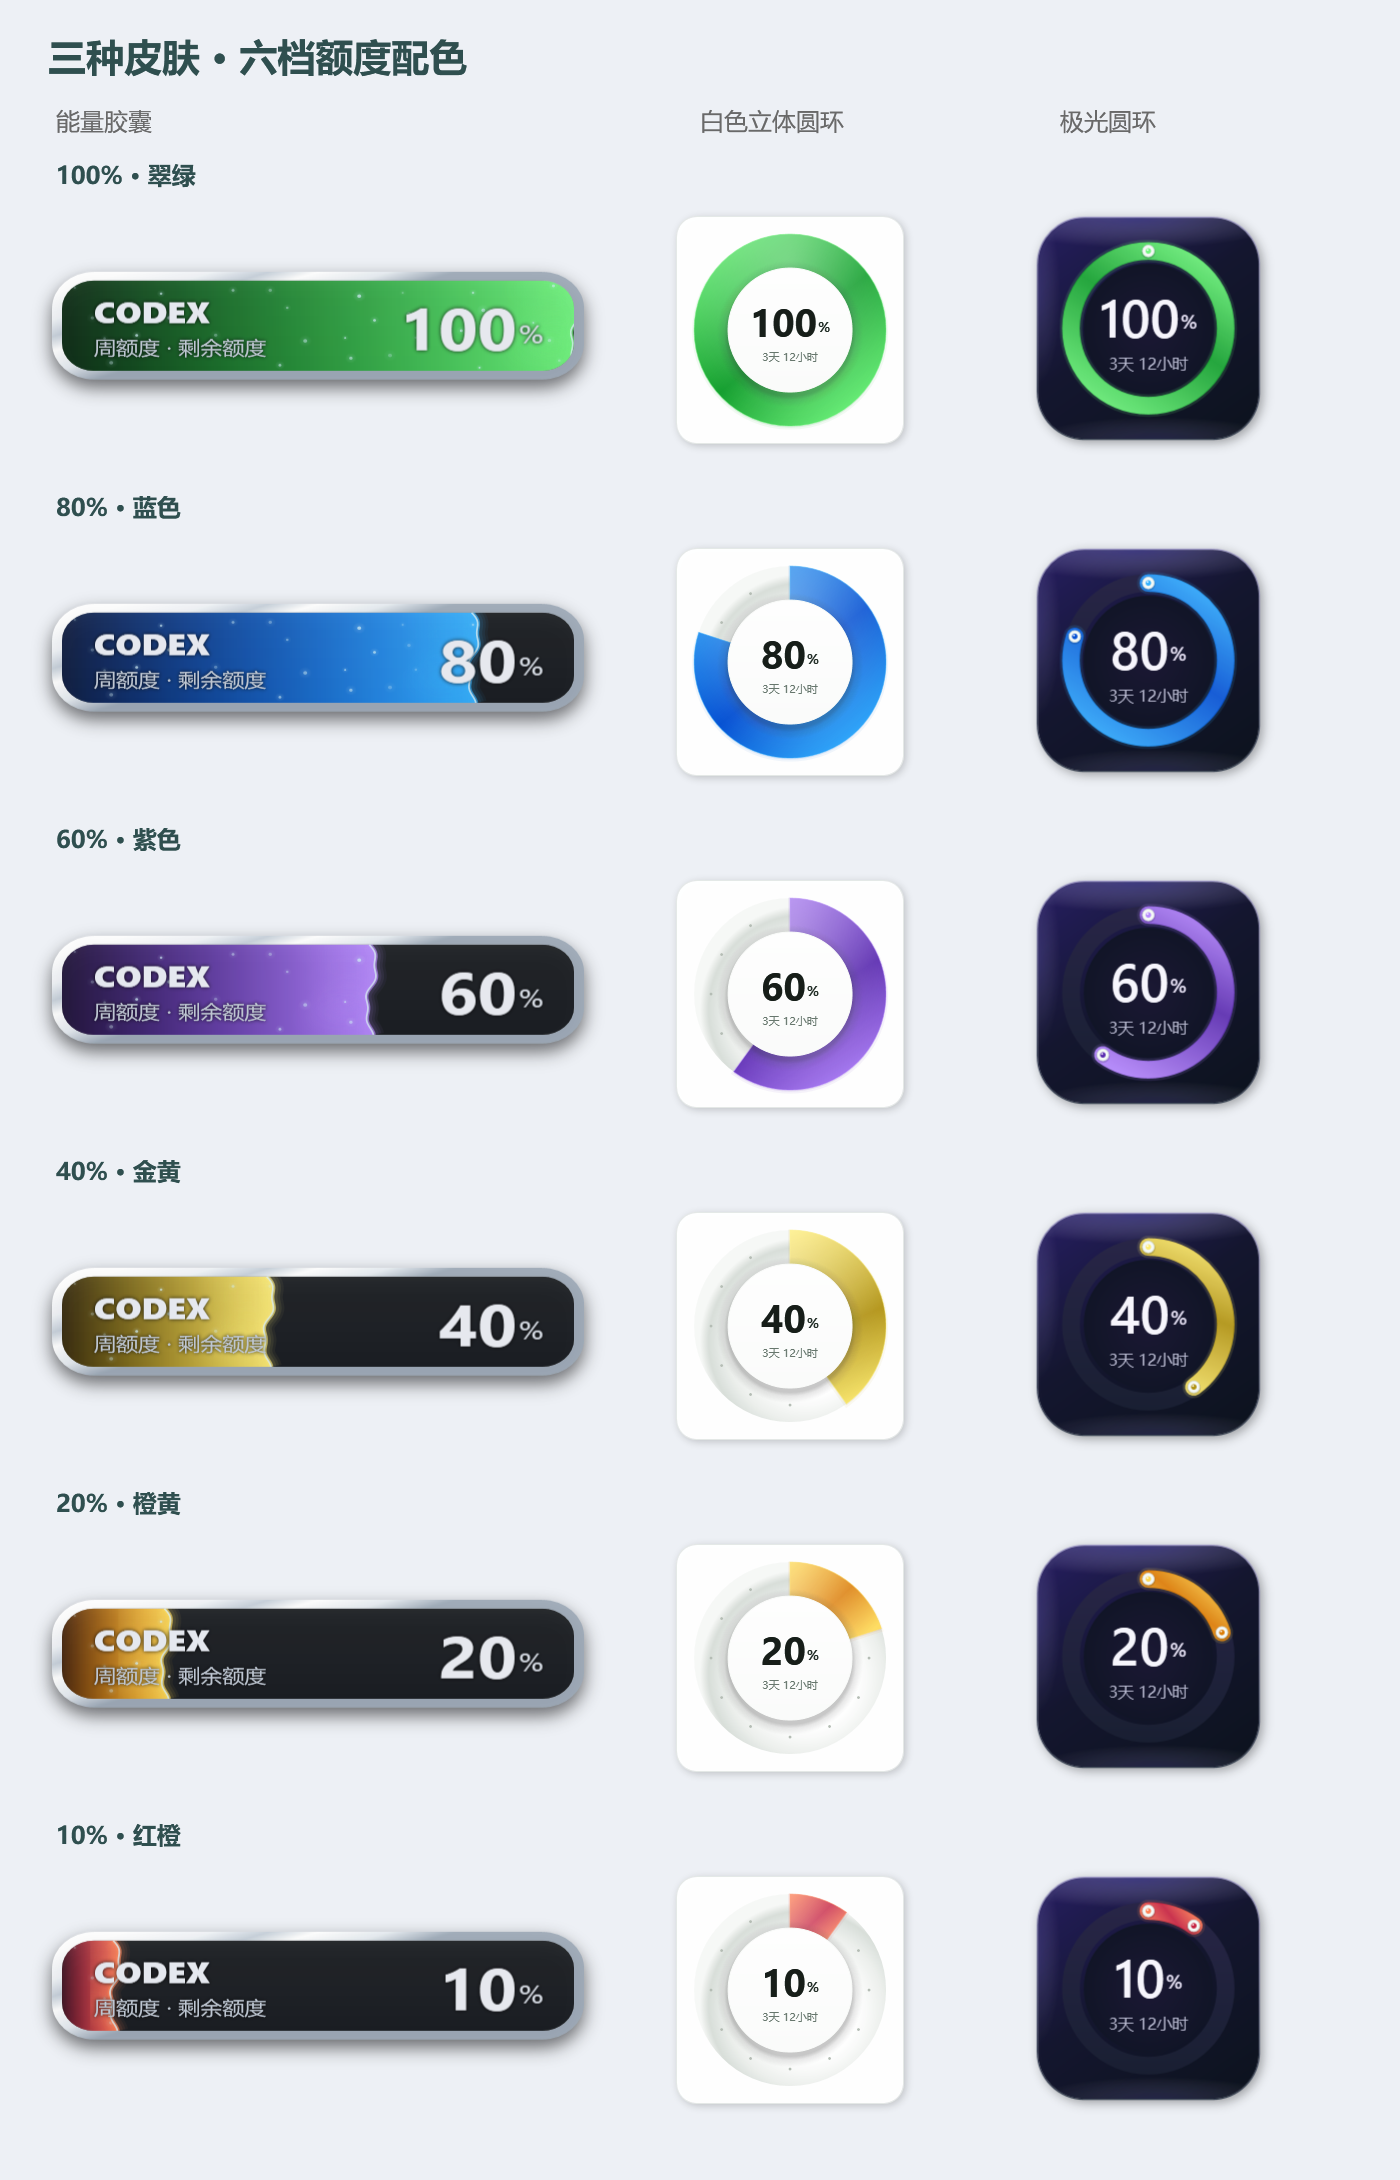
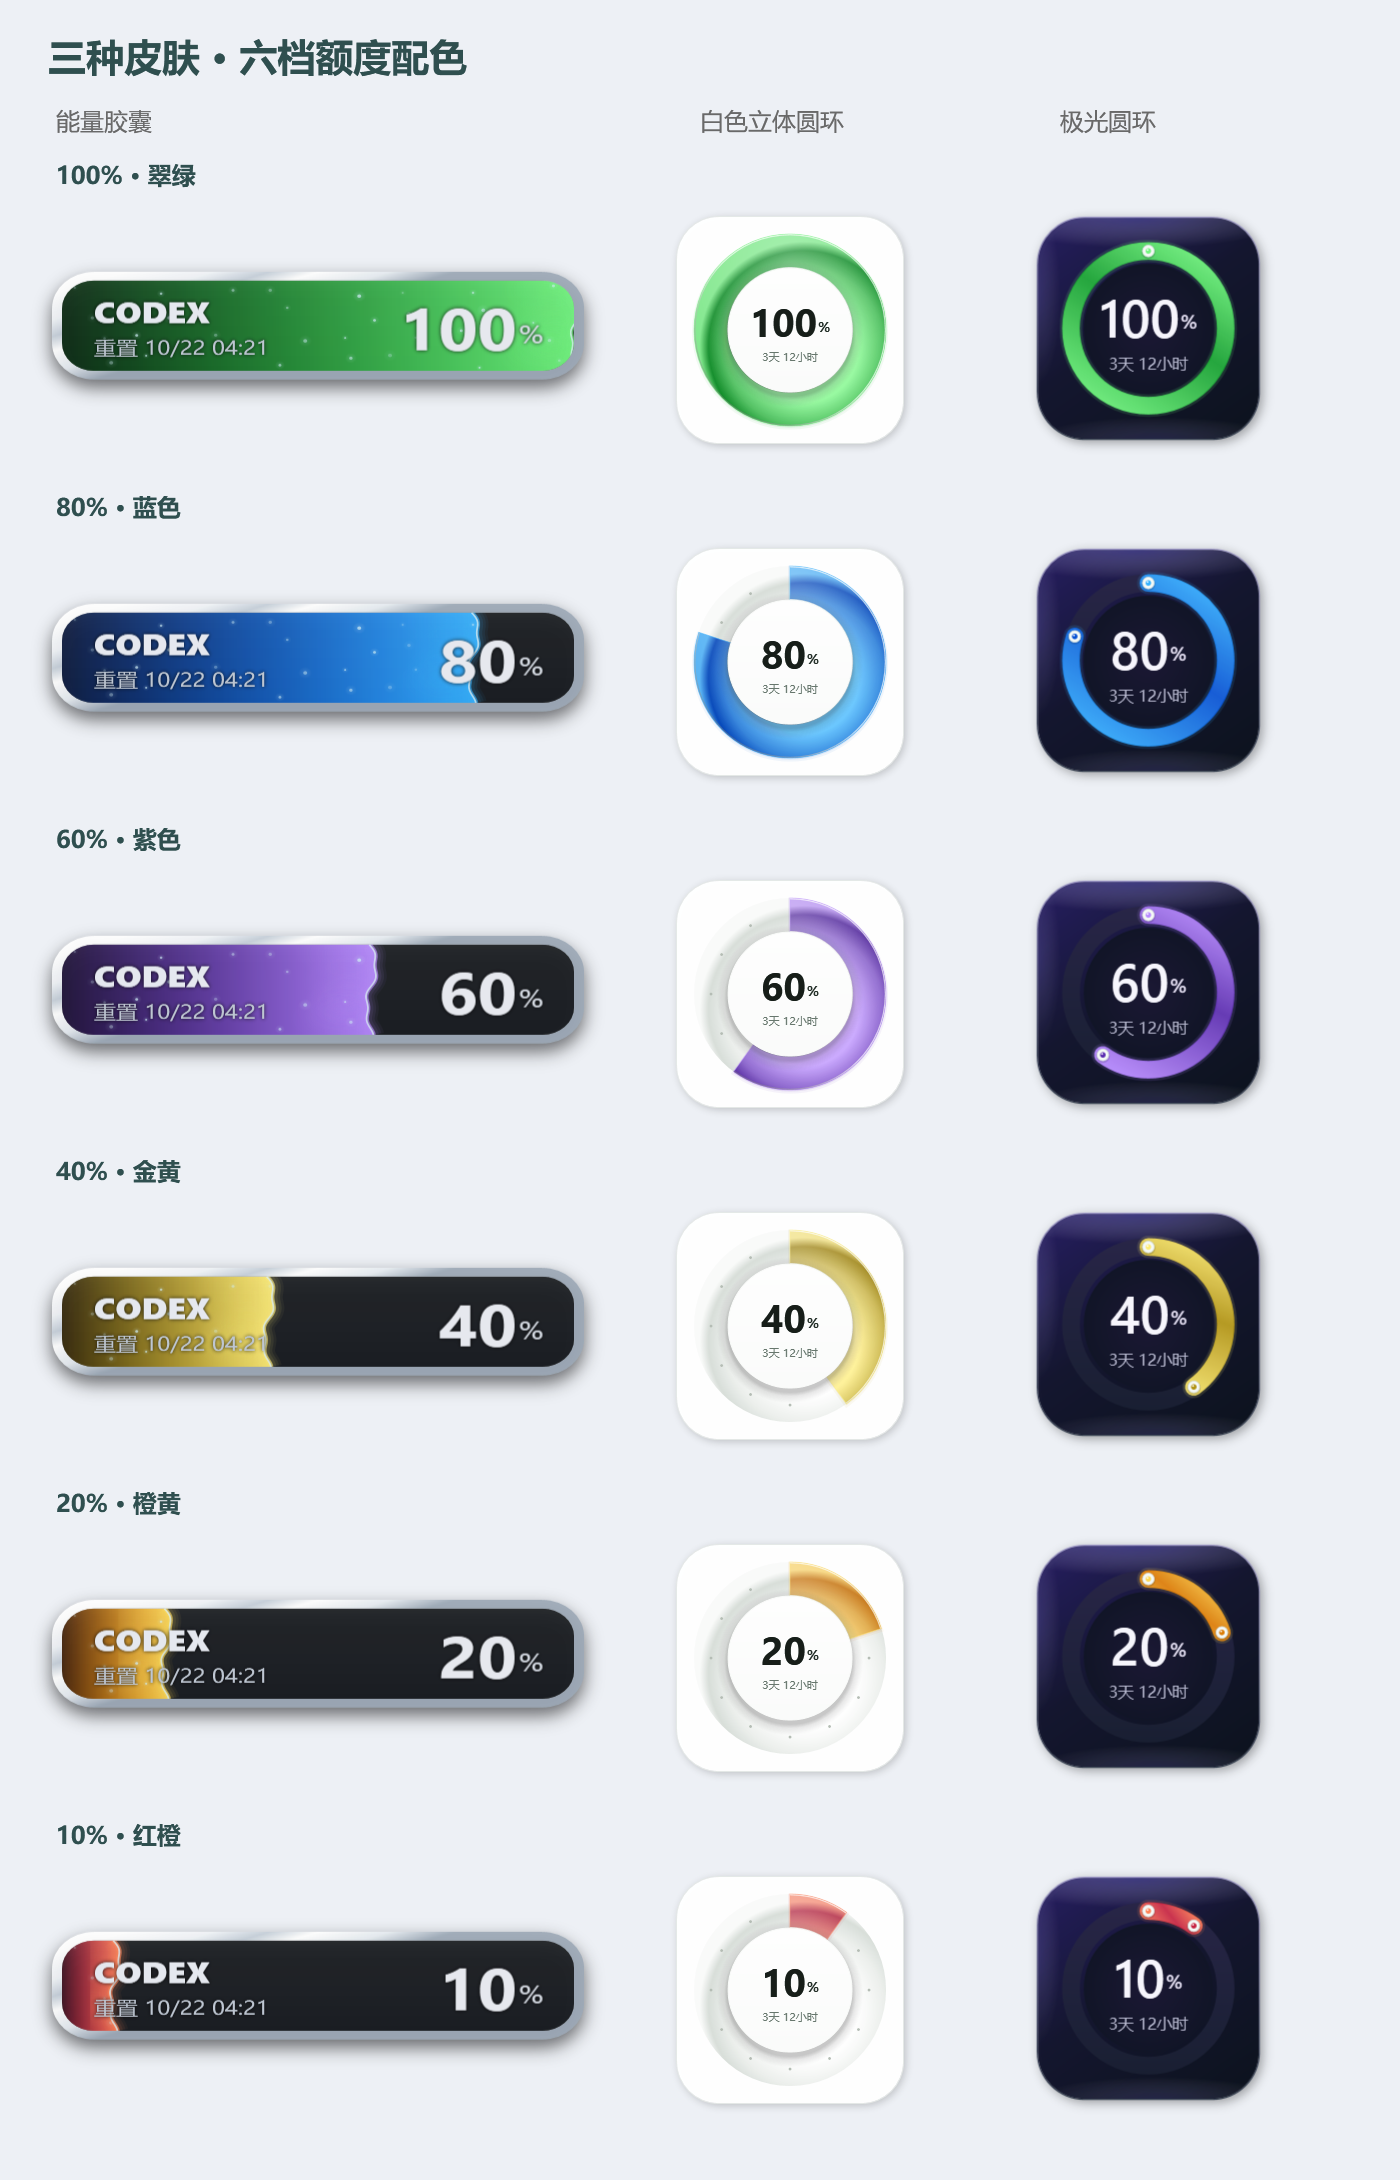
Sculpt white ring material and show capsule reset time

diff --git a/src/RingMeter.cs b/src/RingMeter.cs
@@ -16,6 +16,12 @@ namespace CodexMeter {
 class RingSurface : FrameworkElement {
     public double Remaining;public bool Dark;
     static SolidColorBrush B(string c){return (SolidColorBrush)new BrushConverter().ConvertFromString(c);}
+    static Color Mix(Color a,Color b,double t){return Color.FromRgb((byte)Math.Round(a.R+(b.R-a.R)*t),(byte)Math.Round(a.G+(b.G-a.G)*t),(byte)Math.Round(a.B+(b.B-a.B)*t));}
+    static RadialGradientBrush WhiteRingMaterial(Color high,Color low){
+        // Absolute coordinates keep the same sculpted material on the track and every arc length.
+        var material=new RadialGradientBrush{MappingMode=BrushMappingMode.Absolute,Center=new Point(113.44,115.36),GradientOrigin=new Point(119.2,124.96),RadiusX=103.68,RadiusY=103.68};
+        material.GradientStops.Add(new GradientStop(high,0.50));material.GradientStops.Add(new GradientStop(Mix(high,low,0.52),0.77));material.GradientStops.Add(new GradientStop(low,0.92));material.GradientStops.Add(new GradientStop(Mix(high,low,0.15),1));return material;
+    }
     void DrawDark(DrawingContext dc){
         const double c=100,r=79;double p=Math.Max(0,Math.Min(100,Remaining))/100;
         var core=new RadialGradientBrush(Color.FromRgb(23,20,49),Color.FromRgb(13,17,36));dc.DrawEllipse(core,null,new Point(c,c),66,66);
@@ -33,8 +39,7 @@ class RingSurface : FrameworkElement {
     protected override void OnRender(DrawingContext dc){
         if(Dark){DrawDark(dc);return;}
         const double c=100,r=96,inner=62;
-        var track=new RadialGradientBrush();track.Center=new Point(0.57,0.58);track.GradientOrigin=new Point(0.6,0.63);track.RadiusX=0.54;track.RadiusY=0.54;
-        track.GradientStops.Add(new GradientStop(Color.FromRgb(255,255,255),0.50));track.GradientStops.Add(new GradientStop(Color.FromRgb(235,238,235),0.77));track.GradientStops.Add(new GradientStop(Color.FromRgb(216,222,217),0.92));track.GradientStops.Add(new GradientStop(Color.FromRgb(246,248,246),1));
+        var track=WhiteRingMaterial(Colors.White,Color.FromRgb(216,222,217));
         dc.DrawEllipse(track,null,new Point(c,c),r,r);
         double p=Math.Max(0,Math.Min(100,Remaining))/100;
         for(int i=0;i<12;i++){double angle=-Math.PI/2+i*Math.PI/6;if(i/12.0>p+0.03){var pos=new Point(c+79*Math.Cos(angle),c+79*Math.Sin(angle));dc.PushTransform(new RotateTransform(angle*180/Math.PI,pos.X,pos.Y));dc.DrawRoundedRectangle(new SolidColorBrush(Color.FromRgb(179,188,179)),null,new Rect(pos.X-1.3,pos.Y-1.3,2.6,2.6),0.6,0.6);dc.Pop();}}
@@ -43,10 +48,11 @@ class RingSurface : FrameworkElement {
             if(p>=0.99999)arc=new CombinedGeometry(GeometryCombineMode.Exclude,new EllipseGeometry(new Point(c,c),r,r),new EllipseGeometry(new Point(c,c),inner,inner));
             else{double a=-Math.PI/2+p*Math.PI*2;Point outerEnd=new Point(c+r*Math.Cos(a),c+r*Math.Sin(a)),innerEnd=new Point(c+inner*Math.Cos(a),c+inner*Math.Sin(a));var g=new StreamGeometry();using(var s=g.Open()){s.BeginFigure(new Point(c,c-r),true,true);s.ArcTo(outerEnd,new Size(r,r),0,p>0.5,SweepDirection.Clockwise,true,false);s.LineTo(innerEnd,true,false);s.ArcTo(new Point(c,c-inner),new Size(inner,inner),0,p>0.5,SweepDirection.Counterclockwise,true,false);}g.Freeze();arc=g;}
             var palette=QuotaColors.For(Remaining);Color light=palette.Tip,dark=palette.Body;
-            var fill=new LinearGradientBrush();fill.StartPoint=new Point(0,0);fill.EndPoint=new Point(0.8,1);fill.GradientStops.Add(new GradientStop(light,0));fill.GradientStops.Add(new GradientStop(dark,0.57));fill.GradientStops.Add(new GradientStop(light,1));
+            var fill=WhiteRingMaterial(Mix(light,Colors.White,0.24),Mix(dark,Colors.Black,0.12));
             dc.PushTransform(new TranslateTransform(0,1.6));dc.DrawGeometry(new SolidColorBrush(Color.FromArgb(25,dark.R,dark.G,dark.B)),new Pen(new SolidColorBrush(Color.FromArgb(15,dark.R,dark.G,dark.B)),4),arc);dc.Pop();
             dc.DrawGeometry(fill,new Pen(new SolidColorBrush(Color.FromArgb(120,light.R,light.G,light.B)),1),arc);
-            dc.PushClip(arc);var glint=new RadialGradientBrush();glint.Center=new Point(0.5,0.18);glint.GradientOrigin=new Point(0.5,0.18);glint.RadiusX=0.60;glint.RadiusY=0.80;glint.GradientStops.Add(new GradientStop(Color.FromArgb(80,255,255,255),0));glint.GradientStops.Add(new GradientStop(Colors.Transparent,1));dc.DrawRectangle(glint,null,new Rect(c-r,c-r,2*r,2*r));dc.Pop();
+            dc.PushClip(arc);var glint=new RadialGradientBrush();glint.Center=new Point(0.5,0.18);glint.GradientOrigin=new Point(0.5,0.18);glint.RadiusX=0.60;glint.RadiusY=0.80;glint.GradientStops.Add(new GradientStop(Color.FromArgb(80,255,255,255),0));glint.GradientStops.Add(new GradientStop(Colors.Transparent,1));dc.DrawRectangle(glint,null,new Rect(c-r,c-r,2*r,2*r));
+            var bevel=new LinearGradientBrush(Color.FromArgb(170,255,255,255),Color.FromArgb(55,0,0,0),135);dc.DrawEllipse(null,new Pen(bevel,1.3),new Point(c,c),r-0.65,r-0.65);dc.DrawEllipse(null,new Pen(bevel,1.1),new Point(c,c),inner+0.55,inner+0.55);dc.Pop();
         }
         for(int i=12;i>=1;i--)dc.DrawEllipse(new SolidColorBrush(Color.FromArgb((byte)(i<5?12:4),33,43,35)),null,new Point(c,c+4),inner+i*0.9,inner+i*0.9);
         var white=new LinearGradientBrush(Colors.White,Color.FromRgb(251,252,251),90);dc.DrawEllipse(white,new Pen(new SolidColorBrush(Color.FromRgb(250,252,250)),1),new Point(c,c),inner,inner);
@@ -71,7 +77,8 @@ class RingWindow : Window {
     public RingWindow(bool preview=false,bool darkStyle=false){
         previewMode=preview;dark=darkStyle;store=Path.Combine(Environment.GetFolderPath(Environment.SpecialFolder.LocalApplicationData),dark?"CodexUsageAurora":"CodexUsageRing");
         Title=dark?"Codex 极光圆环":"Codex 用量圆环";Width=130;Height=130;WindowStyle=WindowStyle.None;ResizeMode=ResizeMode.NoResize;AllowsTransparency=true;Background=Brushes.Transparent;Topmost=true;ShowInTaskbar=false;FontFamily=new FontFamily("Microsoft YaHei UI");
-        var root=new Grid{Width=260,Height=260,LayoutTransform=new ScaleTransform(0.5,0.5)};card=new Border{Background=Brushes.White,BorderBrush=B("#E4E8E6"),BorderThickness=new Thickness(1),CornerRadius=new CornerRadius(dark?48:20),Margin=new Thickness(16),Opacity=dark?0.98:0.97,Effect=new System.Windows.Media.Effects.DropShadowEffect{Color=dark?Color.FromRgb(10,11,36):Color.FromRgb(21,31,27),BlurRadius=dark?17:12,ShadowDepth=dark?5:4,Opacity=dark?0.36:0.20}};
+        double cornerRadius=dark?48:42;
+        var root=new Grid{Width=260,Height=260,LayoutTransform=new ScaleTransform(0.5,0.5)};card=new Border{Background=Brushes.White,BorderBrush=B("#E4E8E6"),BorderThickness=new Thickness(1),CornerRadius=new CornerRadius(cornerRadius),Margin=new Thickness(16),Opacity=dark?0.98:0.97,Effect=new System.Windows.Media.Effects.DropShadowEffect{Color=dark?Color.FromRgb(10,11,36):Color.FromRgb(21,31,27),BlurRadius=dark?17:12,ShadowDepth=dark?5:4,Opacity=dark?0.36:0.20}};
         if(dark){var body=new LinearGradientBrush();body.StartPoint=new Point(0.15,0);body.EndPoint=new Point(0.85,1);body.GradientStops.Add(new GradientStop(B("#21195A").Color,0));body.GradientStops.Add(new GradientStop(B("#10122C").Color,0.46));body.GradientStops.Add(new GradientStop(B("#090F1C").Color,1));card.Background=body;card.BorderBrush=new LinearGradientBrush(B("#A09ACA").Color,B("#202C3D").Color,90);card.BorderThickness=new Thickness(1.2);}
         var grid=new Grid();if(dark)grid.Children.Add(new AuroraShine());
         var host=new Grid{Width=200,Height=200};ring=new RingSurface{Dark=dark};host.Children.Add(ring);
@@ -79,7 +86,7 @@ class RingWindow : Window {
         var line=new StackPanel{Orientation=Orientation.Horizontal,HorizontalAlignment=HorizontalAlignment.Center};percent=new TextBlock{Text="—",FontFamily=new FontFamily("Segoe UI"),FontSize=dark?54:39,FontWeight=dark?FontWeights.SemiBold:FontWeights.Bold,Foreground=B(dark?"#F7F6FD":"#101813")};line.Children.Add(percent);line.Children.Add(new TextBlock{Text="%",FontSize=dark?18:13,FontWeight=FontWeights.SemiBold,Foreground=B(dark?"#E0DBEF":"#1C2720"),VerticalAlignment=VerticalAlignment.Center,Margin=new Thickness(1,13,0,0)});center.Children.Add(line);
         countdown=new TextBlock{Text="读取重置时间…",FontSize=dark?16:11,FontWeight=FontWeights.Medium,Foreground=B(dark?"#B8B9D0":"#637369"),Margin=new Thickness(0,3,0,0),HorizontalAlignment=HorizontalAlignment.Center};center.Children.Add(countdown);
         host.Children.Add(center);var scale=new Viewbox{Width=200,Height=200,Child=host,Stretch=Stretch.Uniform,HorizontalAlignment=HorizontalAlignment.Center,VerticalAlignment=VerticalAlignment.Center};grid.Children.Add(scale);card.Child=grid;root.Children.Add(card);
-        sweep=new FrameGlow{Radius=dark?48:20,Inset=0.6,Margin=card.Margin};root.Children.Add(sweep);Content=root;
+        sweep=new FrameGlow{Radius=cornerRadius,Inset=0.6,Margin=card.Margin};root.Children.Add(sweep);Content=root;
         card.MouseLeftButtonDown+=(s,e)=>{try{DragMove();Save();}catch{}};
         var menu=new ContextMenu();ContextMenu=menu;Add(menu,"立即刷新额度",()=>{forceRead=true;refresh.Set();});Add(menu,"测试整框红光（3秒）",()=>{if(SkinController.Running)SkinController.NotifyActive();else Notify();});SkinController.AddMenu(menu,dark?"aurora":"ring");var pin=new MenuItem{Header="始终置顶",IsCheckable=true,IsChecked=true};pin.Click+=(s,e)=>Topmost=pin.IsChecked;menu.Items.Add(pin);Add(menu,"收起到托盘",()=>Hide());menu.Items.Add(new Separator());Add(menu,"退出悬浮窗",Close);
         Directory.CreateDirectory(store);Restore();

diff --git a/src/CodexMeter.cs b/src/CodexMeter.cs
@@ -306,7 +306,7 @@ class FloatWindow : Window {
             var title=new StackPanel{Margin=new Thickness(16,0,0,0),HorizontalAlignment=HorizontalAlignment.Left,VerticalAlignment=VerticalAlignment.Center};
             var shadow=new System.Windows.Media.Effects.DropShadowEffect{BlurRadius=4,ShadowDepth=0,Color=Colors.Black,Opacity=0.9};
             title.Children.Add(new TextBlock{Text="CODEX",FontFamily=new FontFamily("Segoe UI"),FontWeight=FontWeights.ExtraBold,FontSize=17,Foreground=Brush("#F0F4FA"),Effect=shadow});
-            title.Children.Add(new TextBlock{Text=row.Label+" · 剩余额度",FontSize=11,FontWeight=FontWeights.Medium,Foreground=Brush("#C6CFDA"),Margin=new Thickness(0,3,0,0),Effect=shadow});group.Children.Add(title);
+            title.Children.Add(new TextBlock{Text=row.Reset==DateTime.MinValue?"重置时间暂无":"重置 "+row.Reset.ToString("M/d HH:mm"),FontSize=11,FontWeight=FontWeights.Medium,Foreground=Brush("#C6CFDA"),Margin=new Thickness(0,3,0,0),Effect=shadow});group.Children.Add(title);
             var number=new StackPanel{Orientation=Orientation.Horizontal,HorizontalAlignment=HorizontalAlignment.Right,VerticalAlignment=VerticalAlignment.Center,Margin=new Thickness(0,0,15,0),Effect=shadow};
             number.Children.Add(new TextBlock{Text=row.Remaining.ToString("0.#"),FontFamily=new FontFamily("Segoe UI"),FontSize=34,FontWeight=FontWeights.Bold,Foreground=Brush("#F1F4F9")});
             number.Children.Add(new TextBlock{Text="%"+(stale?"*":""),FontFamily=new FontFamily("Segoe UI"),FontSize=15,FontWeight=FontWeights.SemiBold,Foreground=Brush("#E1E7EF"),VerticalAlignment=VerticalAlignment.Center,Margin=new Thickness(1,8,0,0)});group.Children.Add(number);quotaPanel.Children.Add(group);

diff --git a/README.md b/README.md
@@ -12,6 +12,7 @@ A small Windows desktop widget for Codex quota, reset countdowns, and local task
 - 白色圆环与极光圆环均为 130 × 130；支持拖动、置顶、托盘收起与记住位置。
 - 每分钟读取账号真实剩余额度，按阶段变色；过期或缓存数据会标记星号。
 - 三种皮肤统一六档配色：>80% 翠绿、>60% 蓝、>40% 紫、>20% 金黄、>10% 橙黄、≤10% 红橙。
+- 胶囊底部显示下次重置日期与时间；白色圆环使用大圆角外框与立体高光进度材质。
 - 圆环中心显示百分比及重置倒计时，精确到天、小时；不足一小时会明确提示。
 - 本机任务完成时，整个框体（含填充区、暗色区和边框）泛红发光，3 秒后淡出。切换皮肤不会重新开始提醒计时。
 - 使用已有 Codex 登录，无需填写 API Key。演示图使用虚构数值。

diff --git a/CHANGELOG.md b/CHANGELOG.md
@@ -1,5 +1,11 @@
 # Changelog
 
+## v1.0.8 — 2026-10-18
+
+- Match the white skin's physical corner radius to the capsule and its completion glow.
+- Give the colored white-ring progress the same sculpted radial material as its track, with beveled highlights.
+- Replace the capsule quota subtitle with the next reset date and time.
+
 ## v1.0.7 — 2026-10-18
 
 - Share the same six quota palettes across capsule, white ring, and aurora ring.
